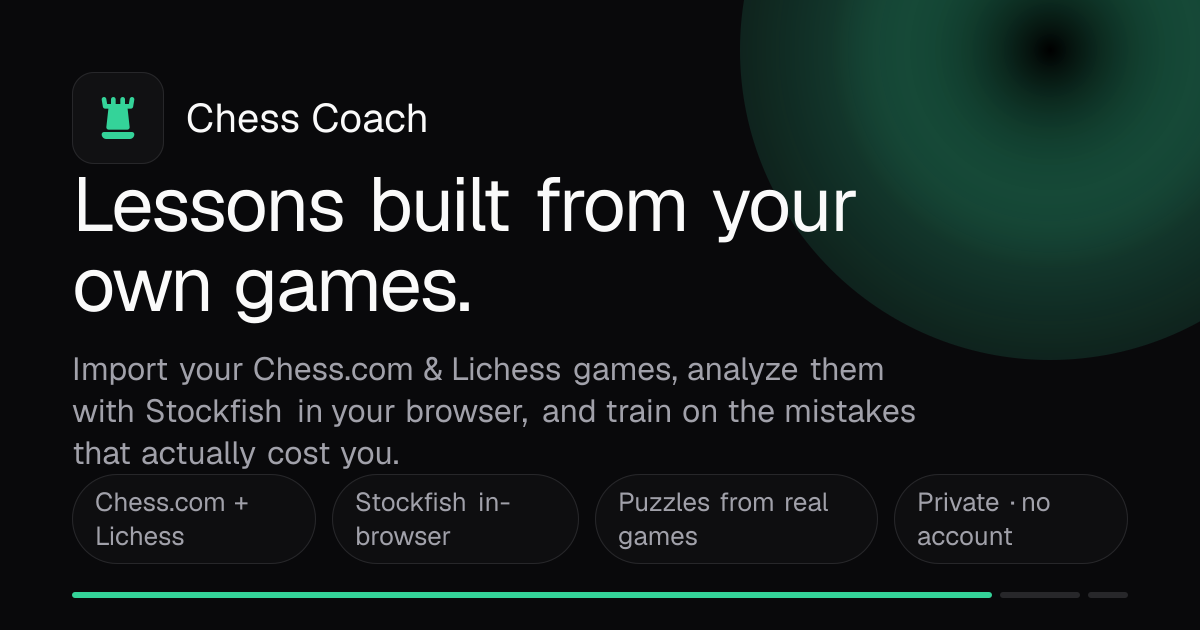
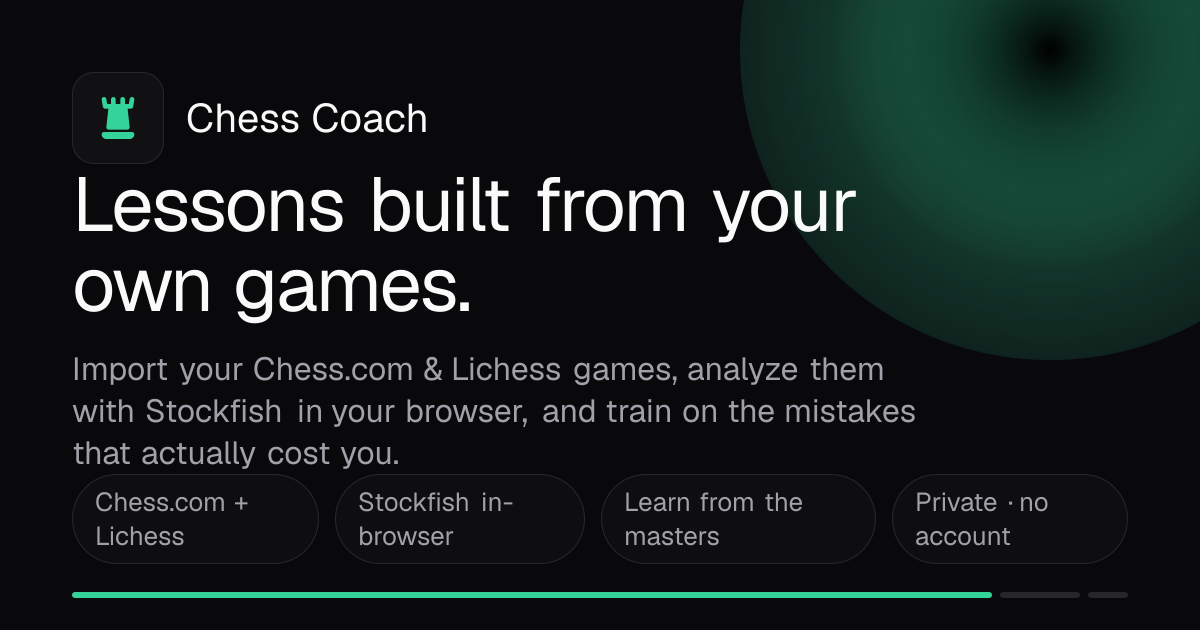
chore(seo): refresh OG card — masters feature instead of puzzles
Replace the "Puzzles from real games" pill with "Learn from the masters"
and regenerate public/og.png from the updated next/og card.

diff --git a/src/lib/og.tsx b/src/lib/og.tsx
@@ -110,7 +110,7 @@ export function renderOgImage() {
           <div style={{ display: "flex", gap: 16 }}>
             <Pill>Chess.com + Lichess</Pill>
             <Pill>Stockfish in-browser</Pill>
-            <Pill>Puzzles from real games</Pill>
+            <Pill>Learn from the masters</Pill>
             <Pill>Private · no account</Pill>
           </div>
           <div style={{ display: "flex", height: 6, gap: 8 }}>